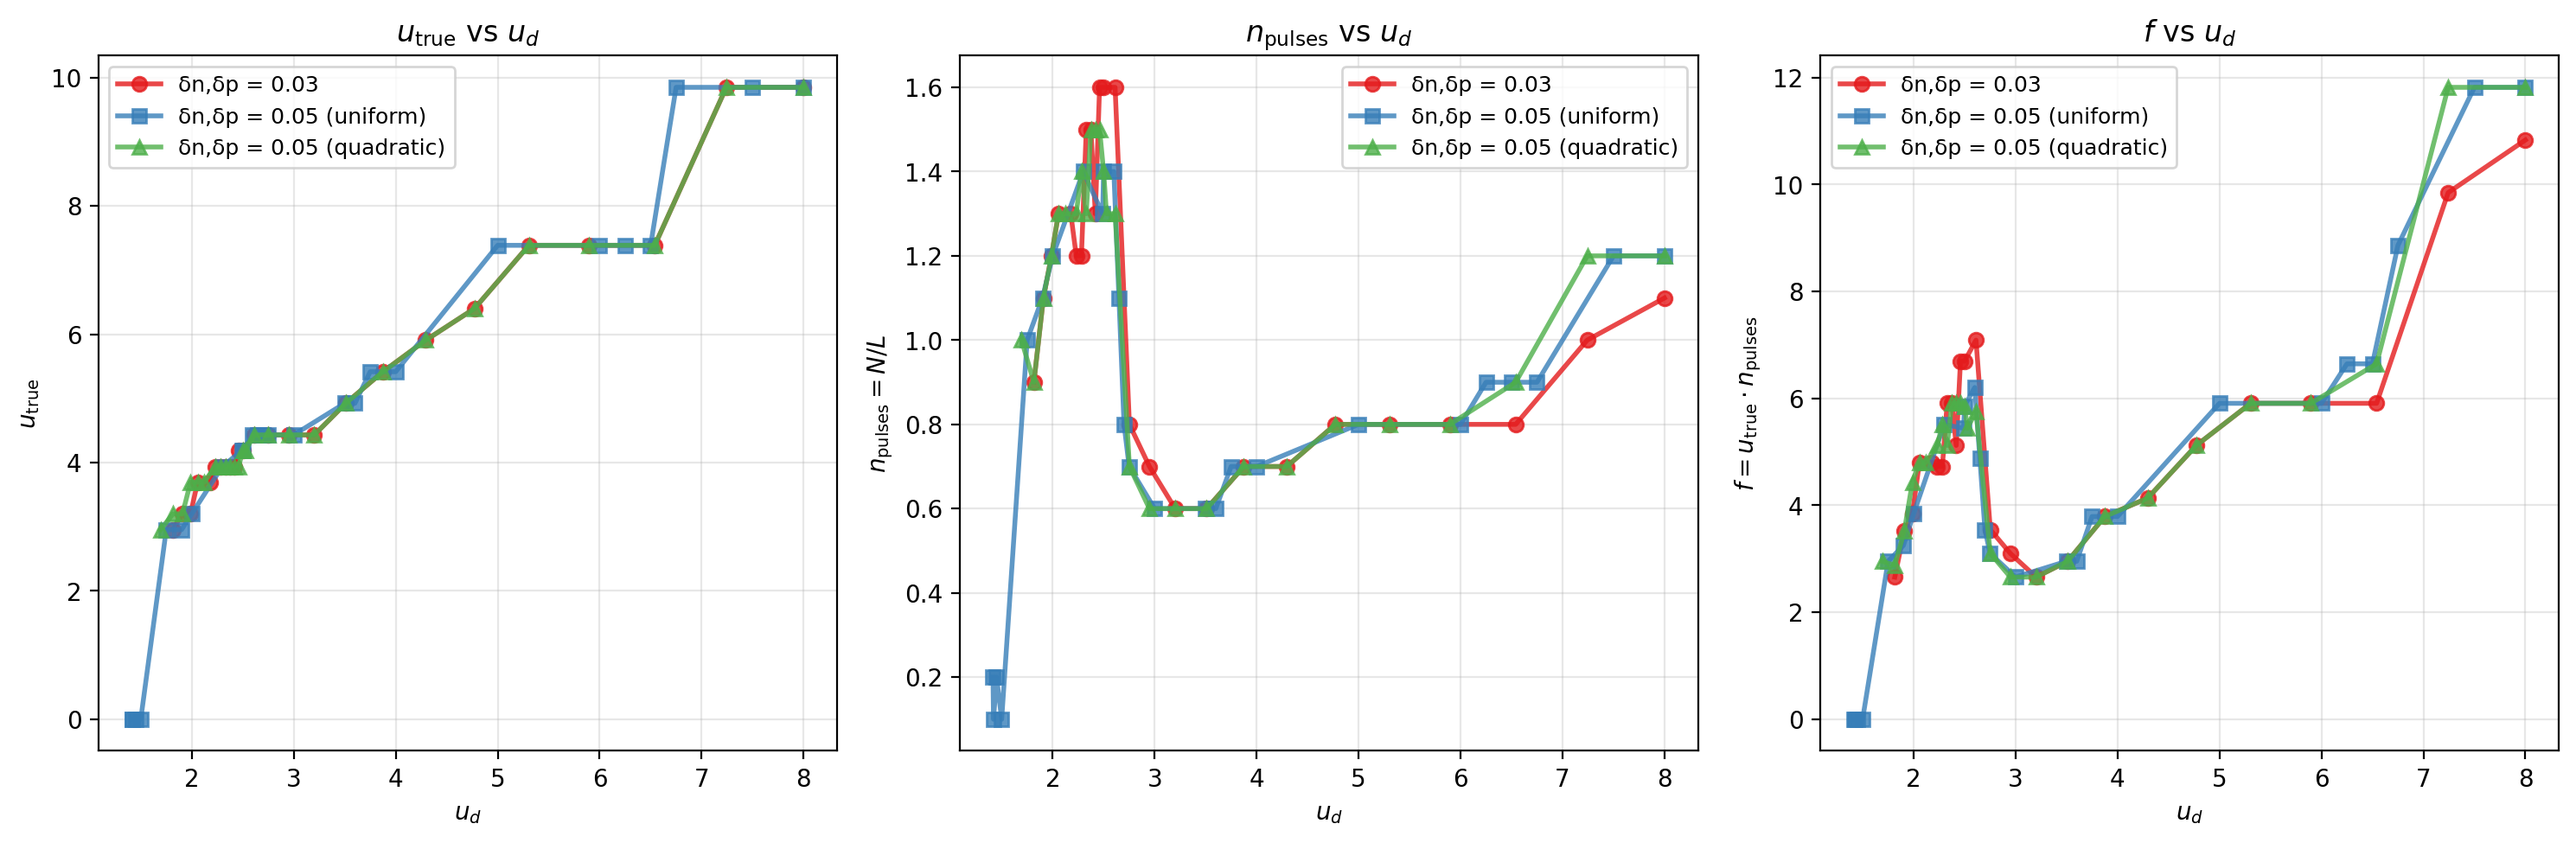
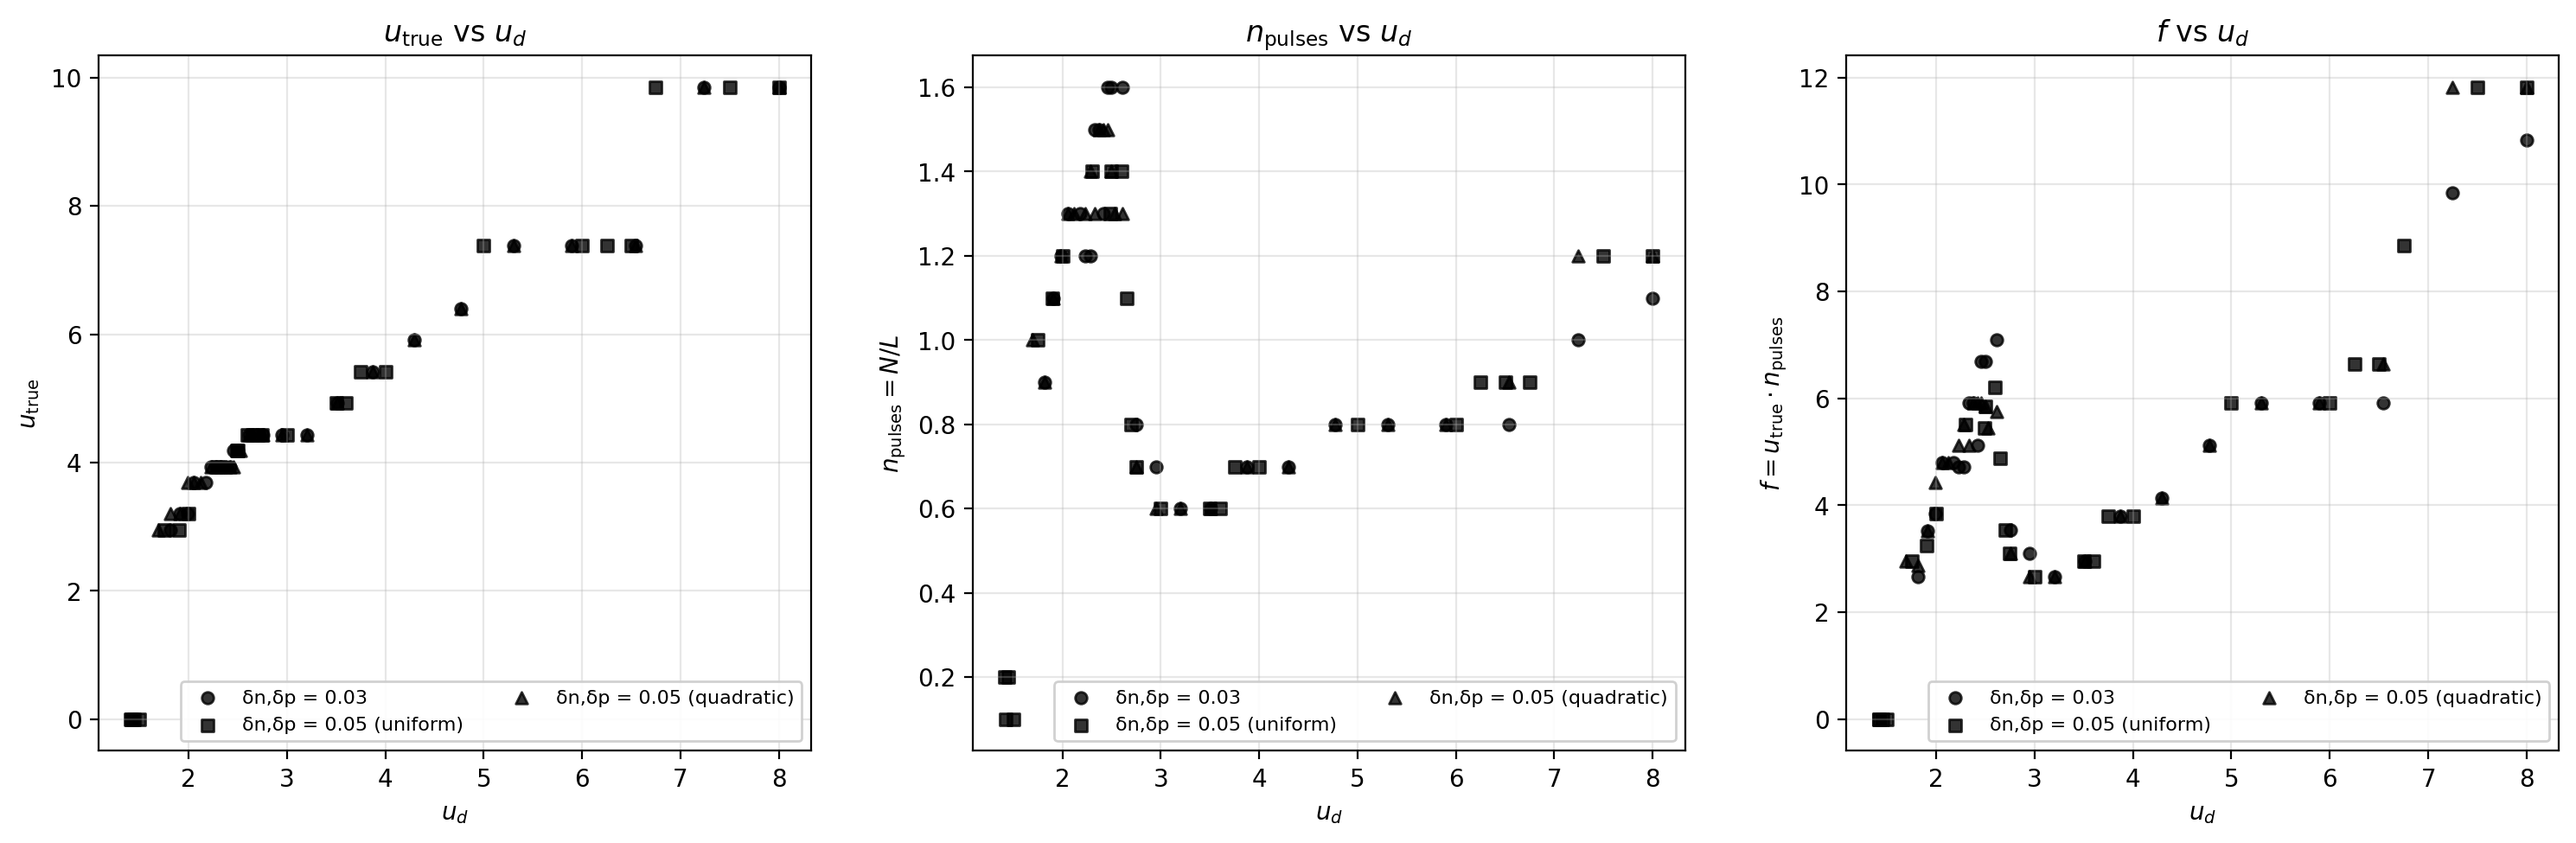
Keeping uniform desing, keeping accent on major

diff --git a/mass injection/plot_from_data.py b/mass injection/plot_from_data.py
@@ -685,8 +685,10 @@ def plot_combined_velocity_analysis(base_dirs, labels=None, outdir="multiple_u_d
     # Create plots - more compact design similar to original velocity_vs_ud.png
     fig, (ax1, ax2, ax3) = plt.subplots(1, 3, figsize=(15, 5))
     
-    colors = ['#E41A1C', '#377EB8', '#4DAF4A', '#984EA3', '#FF7F00']
-    markers = ['o', 's', '^', 'D', 'v']
+    # Same color for all datasets, different marker shapes
+    color = 'black'  # Single color for all datasets
+    markers = ['o', 's', '^', 'D', 'v', '<', '>', 'p', '*', 'h', 
+               'H', '+', 'x', 'X', '|']
     
     for idx, label in enumerate(labels):
         if not data_by_label[label]['u_d']:
@@ -708,43 +710,39 @@ def plot_combined_velocity_analysis(base_dirs, labels=None, outdir="multiple_u_d
         n_pulses_filtered = n_pulses_arr[mask]
         freq_filtered = freq_arr[mask]
         
-        color = colors[idx % len(colors)]
         marker = markers[idx % len(markers)]
         
-        # Plot 1: u_true vs u_d (similar to original)
-        ax1.plot(u_d_filtered, np.abs(u_true_filtered), marker=marker, color=color,
-                 label=label, linewidth=2, markersize=6, alpha=0.8)
+        # Plot 1: u_true vs u_d (points only, no lines, larger size)
+        ax1.scatter(u_d_filtered, np.abs(u_true_filtered), marker=marker, color=color,
+                   label=label, s=24, alpha=0.8)
         
-        # Plot 2: n_pulses vs u_d (similar to original)
-        ax2.plot(u_d_filtered, n_pulses_filtered, marker=marker, color=color,
-                 label=label, linewidth=2, markersize=6, alpha=0.8)
+        # Plot 2: n_pulses vs u_d (points only, no lines, larger size)
+        ax2.scatter(u_d_filtered, n_pulses_filtered, marker=marker, color=color,
+                   label=label, s=24, alpha=0.8)
         
-        # Plot 3: frequency vs u_d (similar to original)
-        ax3.plot(u_d_filtered, freq_filtered, marker=marker, color=color,
-                 label=label, linewidth=2, markersize=6, alpha=0.8)
+        # Plot 3: frequency vs u_d (points only, no lines, larger size)
+        ax3.scatter(u_d_filtered, freq_filtered, marker=marker, color=color,
+                   label=label, s=24, alpha=0.8)
     
     # Plot 1: u_true vs u_d (exact labels from original)
-    ax1.plot([], [], 'bo-', linewidth=2, markersize=8, label='_nolegend_')  # Dummy for style
     ax1.set_xlabel('$u_d$')
     ax1.set_ylabel('$u_{\\text{true}}$')
     ax1.set_title('$u_{\\text{true}}$ vs $u_d$')
-    ax1.legend(fontsize=9, ncol=1, loc='best')
+    ax1.legend(fontsize=8, ncol=2, loc='best', framealpha=0.9)
     ax1.grid(True, alpha=0.3)
     
     # Plot 2: n_pulses vs u_d (exact labels from original)
-    ax2.plot([], [], 'ro-', linewidth=2, markersize=8, label='_nolegend_')  # Dummy for style
     ax2.set_xlabel('$u_d$')
     ax2.set_ylabel('$n_{\\text{pulses}} = N/L$')
     ax2.set_title('$n_{\\text{pulses}}$ vs $u_d$')
-    ax2.legend(fontsize=9, ncol=1, loc='best')
+    ax2.legend(fontsize=8, ncol=2, loc='best', framealpha=0.9)
     ax2.grid(True, alpha=0.3)
     
     # Plot 3: frequency vs u_d (exact labels from original)
-    ax3.plot([], [], 'go-', linewidth=2, markersize=8, label='_nolegend_')  # Dummy for style
     ax3.set_xlabel('$u_d$')
     ax3.set_ylabel('$f = u_{\\text{true}} \\cdot n_{\\text{pulses}}$')
     ax3.set_title('$f$ vs $u_d$')
-    ax3.legend(fontsize=9, ncol=1, loc='best')
+    ax3.legend(fontsize=8, ncol=2, loc='best', framealpha=0.9)
     ax3.grid(True, alpha=0.3)
     
     plt.tight_layout()
